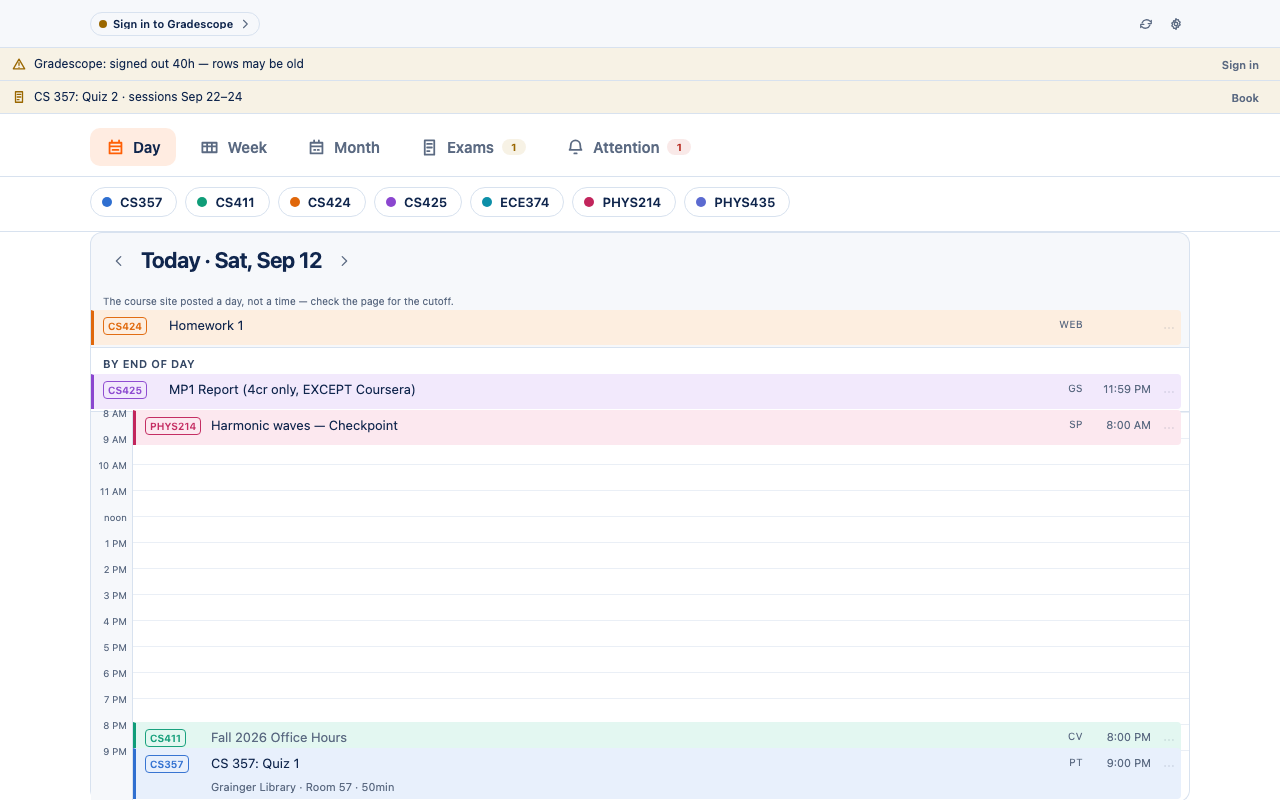
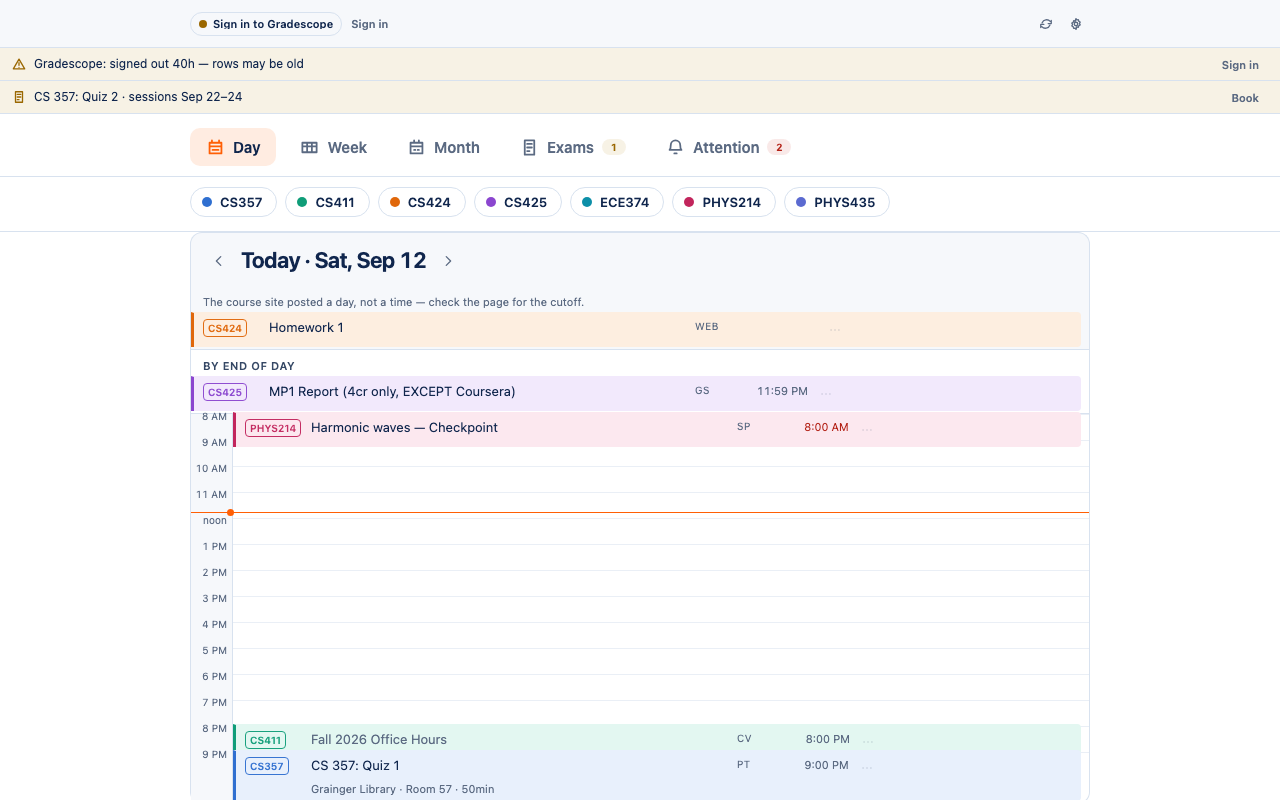
The full view: a week that starts today, and a clock near its title
Two more from Sushi's live run, both in the tab.

The week was Sunday–Saturday there and he opened it on a Saturday, so "this
week" was six days that had already happened plus today — an empty grid whose
only useful control was the forward arrow. That is exactly why the popup went
rolling, and the argument does not weaken in a bigger window: it gets more
visible, because there is room to draw all six empty rows. Both windows roll
from today now, which also buys the thing Sunday–Saturday was supposed to —
one definition of "week". The month stays Sunday-first; it is a grid of
calendar weeks and genuinely is a calendar.

"Looks very weird" measured as 584px between the end of a row's title and the
clock belonging to it. The title track is 1fr, so it absorbed every spare pixel
and shoved the fixed right-hand tracks against the frame — the scanning problem
those tracks exist to prevent. The view-level cap did nothing about it, because
a 1100px cap is inert in a 1000px window, which is what a laptop opens a tab
at.

So the title track stops at 420px and a trailing 1fr takes the slack after the
row, and the list cap drops to 900 — what the rows actually occupy, and narrow
enough to engage at 1000. Also: "Today" was 700px from the two arrows it
undoes.

diff --git a/public/popup.css b/public/popup.css
@@ -61,7 +61,18 @@ html.view-full,
  * feed itself (see the note at the top of this file). `data-view` is written by
  * the renderer from the tab it just drew.
  */
-.view-full body { padding: 0 0 24px; margin: 0; --full-max: 1100px; }
+/*
+ * 900, not 1100.
+ *
+ * A list-shaped view's content is 874px wide by construction — 60 for the
+ * course chip, 420 of title, the source codes, 92 of clock and a menu button —
+ * so a 1100px frame is 226px of ruled nothing inside a visible border. 900 is
+ * what the rows actually occupy, and it has the useful property of engaging at
+ * a 1000px window, which is the width a laptop opens a tab at: `(1000-900)/2`
+ * is 50, comfortably past the 20px minimum gutter, so the cap does something
+ * on the machine it most needs to.
+ */
+.view-full body { padding: 0 0 24px; margin: 0; --full-max: 900px; }
 .view-full body[data-view="month"] { --full-max: 1400px; }
 .view-full .bar { border-radius: 0; }
 /*
@@ -329,7 +340,14 @@ h2.section {
   font-weight: 600; font-size: 12px; font-variant-numeric: tabular-nums;
   padding: 0 2px; white-space: nowrap;
 }
-.datenav--today { margin-left: auto; }
+/*
+ * Next to the arrows, not at the far end of the bar.
+ *
+ * `margin-left: auto` put it 700px from the controls it undoes in a full-view
+ * window — three controls that do one job, two of them together and one of them
+ * across the room.
+ */
+.datenav--today { margin-left: 6px; }
 
 /* ---- the agenda's "now" line ----
  *
@@ -707,6 +725,34 @@ h2.section.section--err { color: var(--err); opacity: 1; }
 }
 .view-full .mpill:hover { filter: brightness(1.12); }
 .view-full #status { padding: 10px 24px 0; }
+/*
+ * The clock follows the title, instead of being pushed to the far edge.
+ *
+ * The row's title track is `1fr`, so it absorbs every spare pixel and shoves
+ * the fixed right-hand tracks against the frame: measured at a 1000px window,
+ * 584px of nothing between the end of "Reading response 3" and the "11:59 PM"
+ * belonging to it. That is the scanning problem the fixed tracks exist to
+ * prevent, and the view-level cap does not touch it — a 1100px cap does nothing
+ * in a 1000px window, which is the size most laptops open a tab at.
+ *
+ * So the title track stops growing at 420px and a trailing `1fr` takes the
+ * slack *after* the row rather than inside it. The clocks still align in a
+ * column, which is the thing the fixed tracks were for.
+ *
+ * 420px is about 60 characters at 13px, against a longest-real-title of 48
+ * ("MP1 Report (4cr only, EXCEPT for students in MC3)"). It is deliberately not
+ * generous: a reserved track is reserved whether or not the title uses it, so
+ * every pixel of headroom is a pixel of gap on every *short* title — which is
+ * most of them.
+ */
+.view-full .witems .row,
+.view-full .band .row,
+.view-full .grid--stack .row,
+.view-full [data-shape="agenda"] .row,
+.view-full .na .row {
+  grid-template-columns: 60px minmax(0, 420px) auto 92px 24px minmax(0, 1fr);
+}
+
 .view-full .wday { padding: 12px; }
 .view-full .wrow { grid-template-columns: 76px 1fr; }
 .view-full .wday--num { font-size: 23px; }

diff --git a/src/ui/popup.ts b/src/ui/popup.ts
@@ -1726,17 +1726,24 @@ function emptyNote(text: string): HTMLElement {
 /* -------------------------------------------------------------------------- */
 
 /**
- * Seven days, starting wherever `WEEK_MODE` says.
+ * Seven days, starting today. In both windows.
  *
- * In the popup that is today (Sushi's decision): on a Friday a Sunday-start
- * week puts five days that have already happened above the only row anyone can
- * still act on, and today ends up the last thing on a 600px screen. The full
- * view keeps Sunday–Saturday, where the columns line up with every other
- * calendar and there is room for the past half.
+ * This was split — rolling in the popup, Sunday–Saturday in the tab, on the
+ * argument that a tab has room for the past half of the week and that a
+ * calendar week lines up with every other calendar. Opening the tab on a
+ * Saturday settled it: Sunday–Saturday is then six days that have already
+ * happened and today, so "this week" was an empty grid and the only way to see
+ * anything was to press the forward arrow.
+ *
+ * That is the same reason the popup went rolling, and it does not get weaker in
+ * a bigger window — it gets more visible, because there is room to render all
+ * six empty rows. Making both rolling also buys the thing the other option was
+ * supposed to: one definition of "week" in both windows.
+ *
+ * The **month** stays Sunday-first. That one is a grid of calendar weeks and
+ * genuinely is a calendar; this is a list of the next seven days.
  */
-const WEEK_MODE: WeekMode = document.documentElement.classList.contains("view-full")
-  ? "sunday"
-  : "rolling";
+const WEEK_MODE: WeekMode = "rolling";
 
 function renderWeekView(items: Item[], now: Date, colours: Map<string, number>): void {
   for (const day of weekContents(items, anchorDate(now), now, WEEK_MODE)) {

diff --git a/PROGRESS.md b/PROGRESS.md
@@ -25,6 +25,35 @@ from here.**
   store assets. Five decisions for Sushi are listed in its §7.
 - Nothing in the extension changed. G4/G5 unchanged.
 
+## Live run: the full view — 2026-09-12
+
+Two more from Sushi, both in the tab, both from screenshots at ~1000 CSS px (2× retina).
+
+1. **"The current week items aren't showing up."** The full view's Week was Sunday–Saturday
+   and he opened it on a **Saturday**, so "this week" was six days that had already
+   happened plus today — an empty grid whose only useful control was the forward arrow.
+   That is precisely why the popup went rolling, and the argument does not weaken in a
+   bigger window; it gets *more* visible, because there is room to draw all six empty
+   rows. **Both windows are rolling now**, which also buys the one thing Sunday–Saturday
+   was supposed to: a single definition of "week". The **month** stays Sunday-first — it
+   is a grid of calendar weeks and genuinely is a calendar.
+2. **"The fullscreen UI looks very weird."** Measured: **584px between the end of a row's
+   title and the clock belonging to it.** The title track is `1fr`, so it absorbed every
+   spare pixel and shoved the fixed right-hand tracks against the frame — the exact
+   scanning problem the fixed tracks exist to prevent, and the M12 view-level cap did
+   nothing about it, because a 1100px cap is inert in a 1000px window.
+   - The title track stops at **420px** (≈60 characters; the longest real title is 48) and
+     a trailing `1fr` takes the slack *after* the row. Clocks still align in a column.
+   - The list cap drops **1100 → 900**, which is what the rows actually occupy — and it
+     engages at a 1000px window, which is the width a laptop opens a tab at. The month
+     keeps 1400.
+   - "Today" moved from `margin-left: auto` to beside the arrows. It was 700px from the
+     two controls it undoes.
+
+   Gap is 200–360px now, bounded by the reserved track rather than by the window: a
+   reserved track is reserved whether or not the title fills it, so every pixel of
+   headroom is a pixel of gap on every short title.
+
 ## Live run: three findings from Sushi — 2026-09-12
 
 All three from one session with the real extension. The first two are the same defect.
